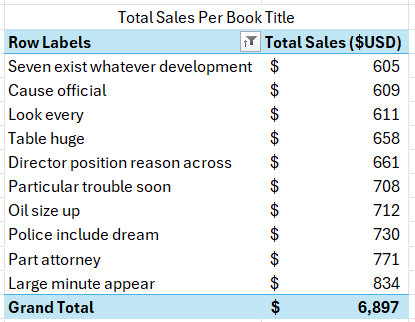
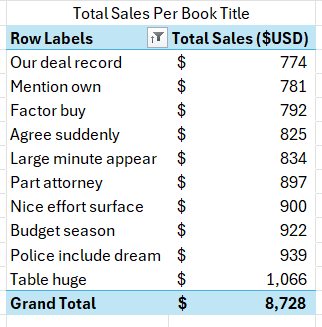
fix readme pictures

diff --git a/Project/README.md b/Project/README.md
@@ -60,7 +60,7 @@ For this project i picked two important **KPIs** to show :
 ### 📊 Top 5 Customers By Sales - Bar Chart
 
 ![Customers By Sales Chart](/images/customers_by_sales_dash.png)
-![Customers By Sales Source](/images/customers_by_sales_dash_source.png)
+![Customers By Sales Source](/images/customers_by_sales_dash_source_last.png)
 
 - **Excel Features:** Utilized bar chart with a **PivotTable** as data source.
 - **Design Choice:** Horizental bar chart for visual comparison of Total Sales by customers
@@ -69,18 +69,18 @@ For this project i picked two important **KPIs** to show :
 
 ### 📊 Top 10 Books By Sales - Bar Chart
 
-![Sales By Titles Chart](/images/sales_by_title_dash.png)
+![Sales By Titles Chart](/images\sales_by_title_dash.png)
 ![Sales By Titles Source](/images/sales_by_title_dash_source.png)
 
 - **Excel Features:** Utilized bar chart with a **PivotTable** as data source.
 - **Design Choice:** Horizental bar chart for visual comparison of Total Sales by Titles
 - **Data Organization:** Sorted titles by ascending total sales for improved readability.
-- **Insights Gained:** This enables quick identification of what are the most profitable Books , with **Large Minute Appear** being the highest book by **$834** , **Part Attorney** come second with **$771**.
+- **Insights Gained:** This enables quick identification of what are the most profitable Books , with **Table huge** being the highest book by **$1066** , **Police include dream** come second with **$939**.
 
 ### 📊 Sales By Country - Map Chart
 
-![Sales By Country Chart](/images/sales_by_country_dash.png)
-![Sales By Country Source](/images/sales_by_country_dash_source.png)
+![Sales By Country Chart](/images/sales_by_country_dash_last.png)
+![Sales By Country Source](/images/sales_by_country_dash_source_last.png)
 
 - **Excel Features:** Utilized map chart feature to plot total sales globally.
 - **Design Choice:** Color-coded map to visually differentiate sales levels across regions.
